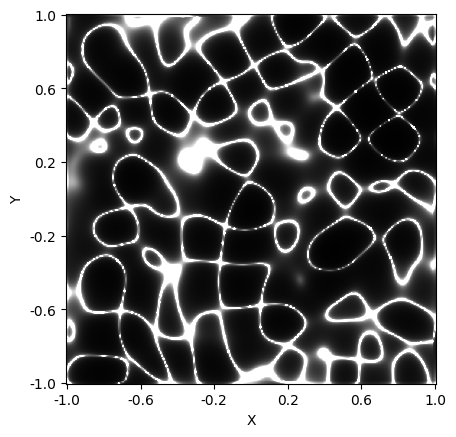
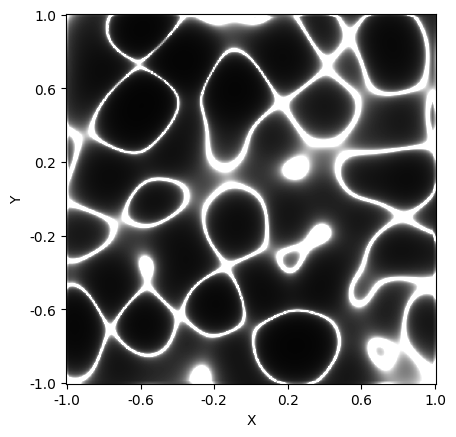
further correction to farfield.py

diff --git a/farfield.py b/farfield.py
@@ -3,8 +3,9 @@ from scipy import signal
 import matplotlib.pyplot as plt
 
 N = 256 # Grid resolution, N ** 2 points
-SX = 1 / 8 # X Roughness
-SY = 1 / 8 # Y Roughness
+SX = 1 / 5 # X Roughness
+SY = 1 / 5 # Y Roughness
+FLAT = 50 # Flattening factor
 D = 5 # Distance to screen
 
 x = np.linspace(- 1, 1, N)
@@ -16,12 +17,12 @@ bell_curve = np.exp(- (X ** 2 / (2 * SX ** 2) + Y ** 2 / (2 * SY ** 2)))
 randn_phase = np.exp(2j * np.pi * np.random.randn(*np.shape(X)))
 complex_amplitude = signal.convolve(randn_phase, bell_curve, 'same')
 mean_sqr_amplitude = np.sqrt(np.mean(np.abs(complex_amplitude) ** 2))
-Z = np.real(complex_amplitude / mean_sqr_amplitude)
+Z = np.real(complex_amplitude / mean_sqr_amplitude) / FLAT
 
 # Jacobian and inverse Jacobian
-O1, O2 = np.gradient(- Z)
-O1x, O1y = np.gradient(O1)
-O2x, O2y = np.gradient(O2)
+O1, O2 = np.gradient(- Z, x, y)
+O1x, O1y = np.gradient(O1, x, y)
+O2x, O2y = np.gradient(O2, x, y)
 Jacobian = O1x * O2y - O1y * O2x
 invJacobian = np.abs(1 / Jacobian)
 
@@ -46,10 +47,10 @@ im1 = ax1.imshow(Z, cmap='seismic', origin='lower')
 plt.colorbar(im1, ax=ax1)
 
 fig2, ax2 = plt.subplots()
-im2 = ax2.imshow(invJacobian, cmap='gray', clim=(0, 5e6), origin='lower')
+im2 = ax2.imshow(invJacobian, cmap='gray', clim=(0, 150), origin='lower')
 
 fig3, ax3 = plt.subplots()
-im3 = ax3.imshow(I, cmap='gray', clim=(0, 10), origin='lower', interpolation='bicubic')
+im3 = ax3.imshow(I, cmap='gray', clim=(0, 15), origin='lower', interpolation='bicubic')
 
 step = N // 5
 axes = [ax1, ax2, ax3]
